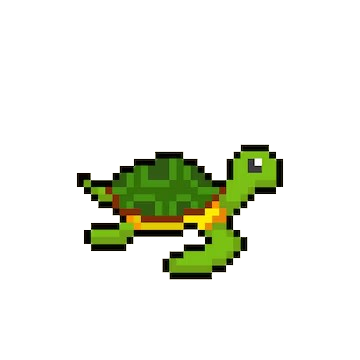
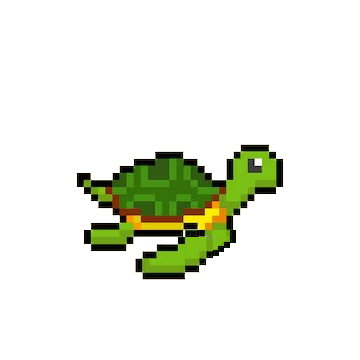
tartaruga animada e coração funcionando

Changed region(s): [[0.3667, 0.6417, 0.7028, 0.7944]]

diff --git a/script.js b/script.js
@@ -1,75 +1,61 @@
 const cnv = document.getElementById("canvas");
-  let ctx = cnv.getContext("2d");
+let ctx = cnv.getContext("2d");
 
-  // Criando o objeto de imagem
-  const img = new Image();
-  img.src = 'tartaruga.png'; // Caminho da sua imagem
-  const coracao = new Image();
-  coracao.src = 'heart.png'
+// Criando o objeto de imagem
+const img1 = new Image();
+img1.src = 'tartaruga.png'; // Caminho da sua imagem
+const img2 = new Image();
+img2.src = 'tartaruga2.png'; // Caminho da sua imagem
 
-  // Definir as coordenadas iniciais
-  let x = 0;  // Posição inicial no eixo X
-  const y = cnv.height / 2 - 225;  // Meio da tela, ajustado para o tamanho da tartaruga
-  const targetX = cnv.width / 2 - 150; // Meio da tela (horizontal), considerando o tamanho da tartaruga **como carambolas isso funciona???
-  const speed = 5; // Velocidade de movimento da tartaruga
-  const texto1 = "Hey! Soube que você é uma pessoa mais"
-  const texto2 = "que especial para uma menina aí."
-  const texto3 = "Ela tem algo a te dizer, clique no coração e"
-  const texto4 = "descubra!"
+// Definir as coordenadas iniciais
+let x = 0;  // Posição inicial no eixo X
+const y = cnv.height / 2 - 225;  // Meio da tela, ajustado para o tamanho da tartaruga
+const targetX = cnv.width / 2 - 150; // Meio da tela (horizontal), considerando o tamanho da tartaruga
+const speed = 2; // Velocidade de movimento da tartaruga
+const texto1 = "Hey! Soube que você é uma pessoa mais";
+const texto2 = "que especial para uma menina aí.";
+const texto3 = "Ela tem algo a te dizer, clique no coração e";
+const texto4 = "descubra!";
 
-const coracaoX = 325;
-const coracaoY = 730;
-const coracaoWidth = 200; // Largura do coração
-const coracaoHeight = 200; // Altura do coração
-
-  function balaoFala(){
-    ctx.fillStyle = "#c1e678"
-    ctx.fillRect(600 , 450 , 350 , 100) //x , y , largura , altura
-    ctx.fillStyle = 'black'
-    ctx.font = '15px Times New Roman'
-    ctx.fillText(texto1 , 605 , 470)
-    ctx.fillText(texto2 , 605 , 490)
-    ctx.fillText(texto3 , 605 , 510)
-    ctx.fillText(texto4 , 605 , 530)
-    let coracaoImg = ctx.drawImage(coracao , 390 , 900 , 200 , 200)
-    console.log(coracao.getWidth)
-  }
-  
-function verificarClique(event) {
-  const mouseX = event.offsetX;
-  const mouseY = event.offsetY;
-  console.log("mouseX: " + mouseX +" mouseY: " + mouseY)
-
-  // Verificar se o clique ocorreu dentro da área do coração (simulando o clique na imagem)
-  if (mouseX > coracaoX && mouseX < coracaoX + coracaoWidth && mouseY > coracaoY && mouseY < coracaoY + coracaoHeight) {
-    // Redireciona para o YouTube
-    window.location.href = 'https://www.youtube.com'; // Substitua com o link desejado
-  }
+function balaoFala() {
+  ctx.fillStyle = "#c1e678";
+  ctx.fillRect(600, 450, 350, 100); // x , y , largura , altura
+  ctx.fillStyle = 'black';
+  ctx.font = '15px Times New Roman';
+  ctx.fillText(texto1, 605, 470);
+  ctx.fillText(texto2, 605, 490);
+  ctx.fillText(texto3, 605, 510);
+  ctx.fillText(texto4, 605, 530);
 }
 
-  // Adiciona o evento de clique ao canvas
-cnv.addEventListener('click', verificarClique);
+let frameCount = 0; // Para controlar o intervalo de troca de imagem
 
-  // Aguarde a imagem carregar antes de desenhá-la
-  img.onload = function () {
-    // Função de animação
-    function animate() {
-      ctx.clearRect(0, 0, cnv.width, cnv.height); // Limpa o canvas antes de redesenhar
+// Função de animação
+function animate() {
+  ctx.clearRect(0, 0, cnv.width, cnv.height); // Limpa o canvas antes de redesenhar
 
-      // Movimento horizontal da tartaruga
-      if (x < targetX) x += speed;
-      if (x > targetX) x -= speed;
+  // Movimento horizontal da tartaruga
+  if (x < targetX) x += speed;
+  if (x > targetX) x -= speed;
 
-      ctx.drawImage(img, x, y, 300, 450); // Desenha a tartaruga
+  // Alternar entre as imagens a cada 20 frames
+  const currentImage = (frameCount % 20 < 10) ? img1 : img2;
+  ctx.drawImage(currentImage, x, y, 300, 450);
 
-      // Chama novamente a animação até a tartaruga chegar ao meio
-      if (x !== targetX) {
-        requestAnimationFrame(animate);
-      }
-      else{
-        balaoFala()
-      }
-    }
+  // Chama novamente a animação até a tartaruga chegar ao meio
+  if (x !== targetX) {
+    requestAnimationFrame(animate);
+  } else {
+    balaoFala();
+    const divHtml = document.getElementById("div");
+    const comandoHTML = `<button id='botao' style="background-image:url('heart.png'); width:120px; height:120px; background-color:#fcf8bb; border:none" onclick="redirecionar()"></button>`;
+    divHtml.innerHTML = comandoHTML;
+  }
 
-    animate(); // Inicia a animação
-  };
+  frameCount++; // Incrementar o contador de frames
+}
+
+// Inicia a animação após as imagens carregarem
+img1.onload = function () {
+  requestAnimationFrame(animate);
+};

diff --git a/index.html b/index.html
@@ -9,5 +9,11 @@
 <body>
     <canvas id="canvas" width="1000" height="1200"></canvas>
     <script src="script.js"></script>
+    <div id="div" style="display: flex; justify-content: center; align-items: center;"></div>
+    <script>
+        function redirecionar(){
+            window.location.href = "https://www.youtube.com"
+        }
+    </script>
 </body>
-</html>
+</html> 

diff --git a/estilo.css b/estilo.css
@@ -6,3 +6,7 @@ canvas{
 body{
     background-color: #fcf8bb;
 }
+/* 
+div{
+    background-image:url('heart.png'); 
+} */
